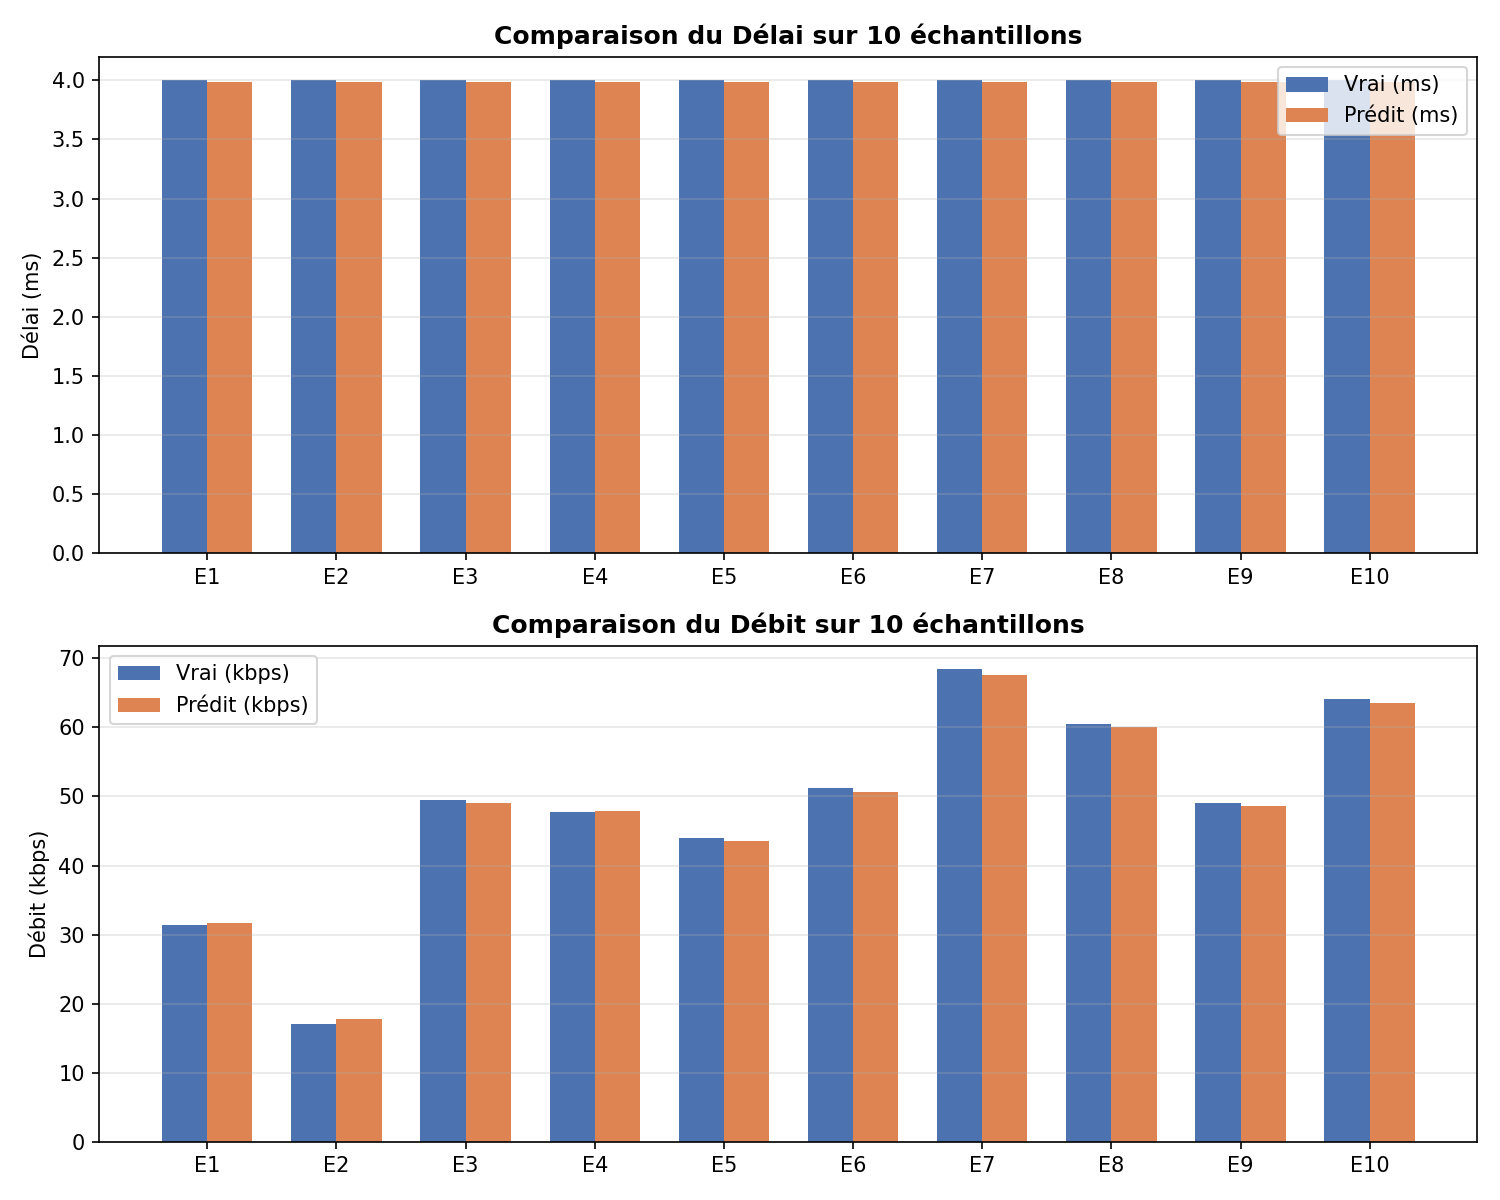
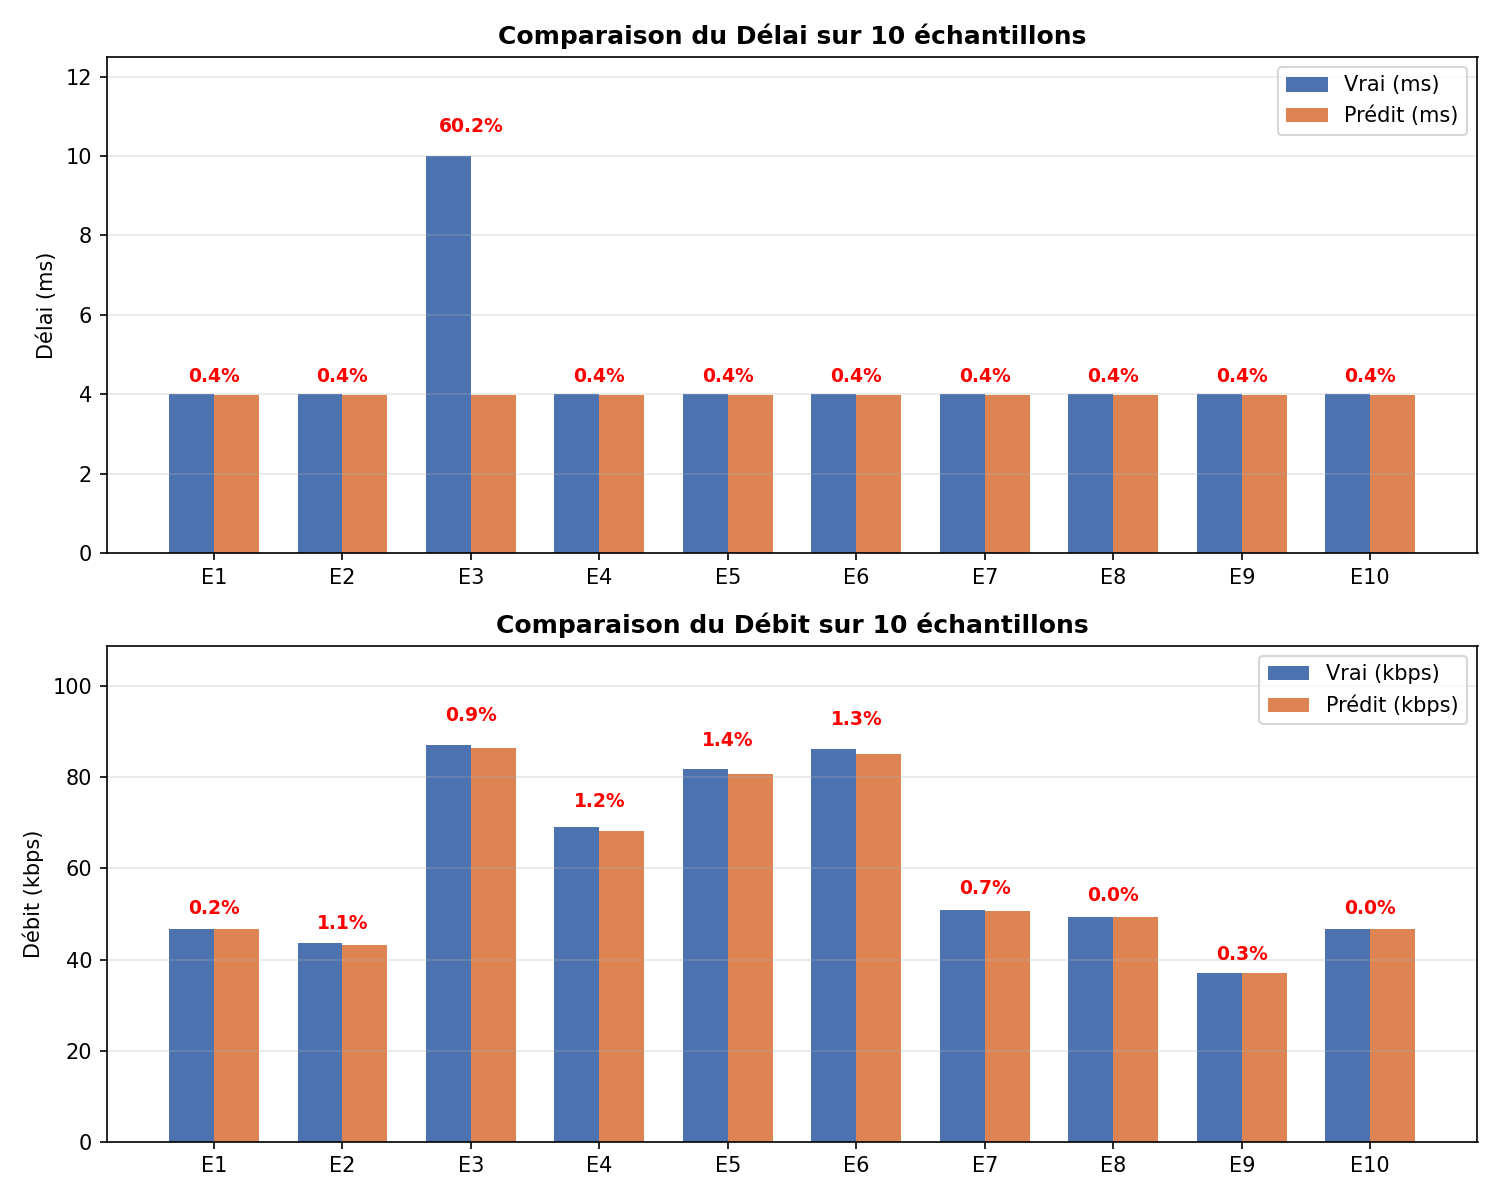
Train Resume

diff --git a/wireless_gnn/train.py b/wireless_gnn/train.py
@@ -2,8 +2,8 @@
 train.py — WirelessNet-Fermi : training d'un seul modèle (Delay OU Throughput)
 
 Usage:
-  python wireless_gnn/train.py --target delay      --epochs 50
-  python wireless_gnn/train.py --target throughput --epochs 50
+python wireless_gnn/train.py --target delay --epochs 100 --resume
+python wireless_gnn/train.py --target delay --epochs 100 --resume auto
 
 Checkpoints:
   checkpoints/<target>/epoch_001_mape_0.1234.pt  <- traces de chaque époque
@@ -121,6 +121,7 @@ def train(
     patience:       int   = 10,
     device_str:     str   = "auto",
     checkpoint_dir: str   = "checkpoints",
+    resume:         Optional[str] = None,
 ) -> dict:
     """
     Entraîne un seul modèle spécialisé (delay OU throughput).
@@ -176,11 +177,41 @@ def train(
     best_state = None
     no_improve = 0
     history    = {"train": [], "val": []}
+    start_epoch = 1
+
+    if str(resume).lower() in ("auto", "latest", "true"):
+        import glob
+        pattern = os.path.join(ckpt_dir, "epoch_*_mape_*.pt")
+        ckpts = glob.glob(pattern)
+        if ckpts:
+            ckpts.sort()
+            resume = ckpts[-1]
+            print(f"[{label}] Auto-detected latest checkpoint: {resume}")
+        else:
+            print(f"[{label}] No checkpoints found in {ckpt_dir} to resume from.")
+            resume = None
+
+    if resume and os.path.isfile(resume):
+        print(f"[{label}] Reprise depuis le checkpoint : {resume}")
+        checkpoint = torch.load(resume, map_location=device)
+        if "model" in checkpoint:
+            model.load_state_dict(checkpoint["model"])
+            if "optimizer" in checkpoint:
+                optimizer.load_state_dict(checkpoint["optimizer"])
+            if "epoch" in checkpoint:
+                start_epoch = checkpoint["epoch"] + 1
+            if "val_mape" in checkpoint:
+                best_val = checkpoint["val_mape"]
+        else:
+            model.load_state_dict(checkpoint)
+        best_state = copy.deepcopy(model.state_dict())
+    elif resume:
+        print(f"[{label}] Checkpoint introuvable : {resume}")
 
     print(f"\n[{label}] {'Epoch':>6}  {'Train MAPE':>12}  {'Val MAPE':>12}  {'Best?':>6}  {'LR':>10}  {'Time':>7}")
     print(f"[{label}] " + "-" * 65)
 
-    epoch_bar = tqdm(range(1, epochs + 1), desc=f"[{label}]", unit="ep", dynamic_ncols=True)
+    epoch_bar = tqdm(range(start_epoch, epochs + 1), desc=f"[{label}]", unit="ep", dynamic_ncols=True)
 
     for epoch in epoch_bar:
         t0 = time.time()
@@ -371,6 +402,7 @@ if __name__ == "__main__":
     parser.add_argument("--patience",       type=int,   default=10)
     parser.add_argument("--checkpoint-dir", default="checkpoints")
     parser.add_argument("--device",         default="auto")
+    parser.add_argument("--resume",         type=str, nargs='?', const='auto', default=None, help="Chemin du checkpoint, ou 'auto' pour le dernier")
     args = parser.parse_args()
 
     root = args.root if args.root != "." else _os.path.dirname(
@@ -389,6 +421,7 @@ if __name__ == "__main__":
         patience       = args.patience,
         device_str     = args.device,
         checkpoint_dir = args.checkpoint_dir,
+        resume         = args.resume,
     )
 
     # ── Plots ────────────────────────────────────────────────────────── #

diff --git a/eval_samples.py b/eval_samples.py
@@ -133,24 +133,42 @@ def main():
             ax1 = axes[0]
             ax1.bar(x - width/2, delay_true_list, width, label='Vrai (ms)', color='#4C72B0')
             ax1.bar(x + width/2, delay_pred_list, width, label='Prédit (ms)', color='#DD8452')
+            
+            # Ajouter les pourcentages d'erreur au-dessus des barres
+            for i in range(len(labels)):
+                err = abs(delay_true_list[i] - delay_pred_list[i]) / (abs(delay_true_list[i]) + 1e-6) * 100
+                max_val = max(delay_true_list[i], delay_pred_list[i])
+                ax1.text(x[i], max_val * 1.05, f"{err:.1f}%", ha='center', va='bottom', fontsize=9, color='red', fontweight='bold')
+                
             ax1.set_ylabel('Délai (ms)')
             ax1.set_title('Comparaison du Délai sur 10 échantillons', fontweight='bold')
             ax1.set_xticks(x)
             ax1.set_xticklabels(labels)
             ax1.legend()
             ax1.grid(axis='y', alpha=0.3)
+            # Ajouter de l'espace en haut pour le texte
+            ax1.set_ylim(0, max(max(delay_true_list), max(delay_pred_list)) * 1.25)
 
         # Subplot 2: Throughput
         if tput_true_list:
             ax2 = axes[1]
             ax2.bar(x - width/2, tput_true_list, width, label='Vrai (kbps)', color='#4C72B0')
             ax2.bar(x + width/2, tput_pred_list, width, label='Prédit (kbps)', color='#DD8452')
+            
+            # Ajouter les pourcentages d'erreur au-dessus des barres
+            for i in range(len(labels)):
+                err = abs(tput_true_list[i] - tput_pred_list[i]) / (abs(tput_true_list[i]) + 1e-6) * 100
+                max_val = max(tput_true_list[i], tput_pred_list[i])
+                ax2.text(x[i], max_val * 1.05, f"{err:.1f}%", ha='center', va='bottom', fontsize=9, color='red', fontweight='bold')
+                
             ax2.set_ylabel('Débit (kbps)')
             ax2.set_title('Comparaison du Débit sur 10 échantillons', fontweight='bold')
             ax2.set_xticks(x)
             ax2.set_xticklabels(labels)
             ax2.legend()
             ax2.grid(axis='y', alpha=0.3)
+            # Ajouter de l'espace en haut pour le texte
+            ax2.set_ylim(0, max(max(tput_true_list), max(tput_pred_list)) * 1.25)
 
         plt.tight_layout()
         save_path = "eval_samples_comparison.png"
